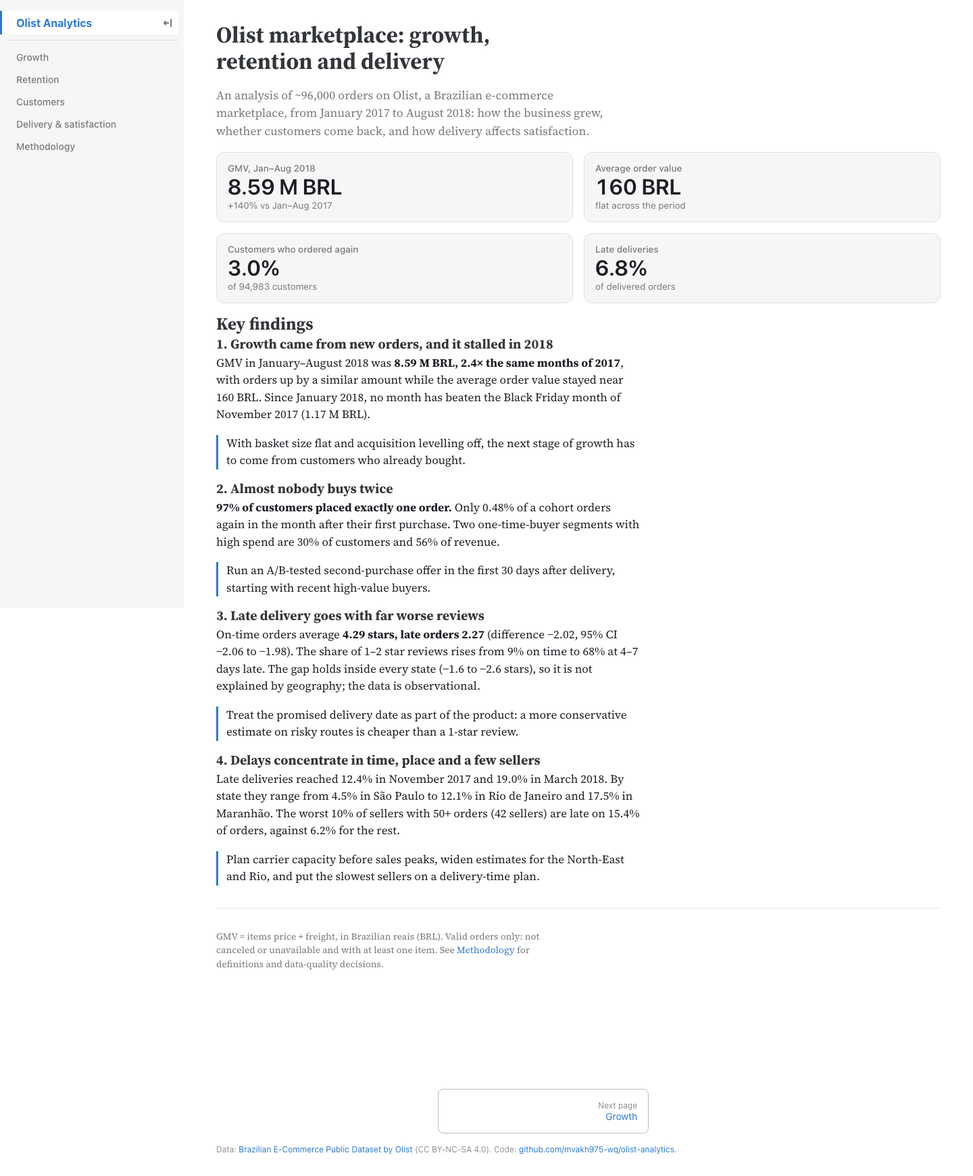
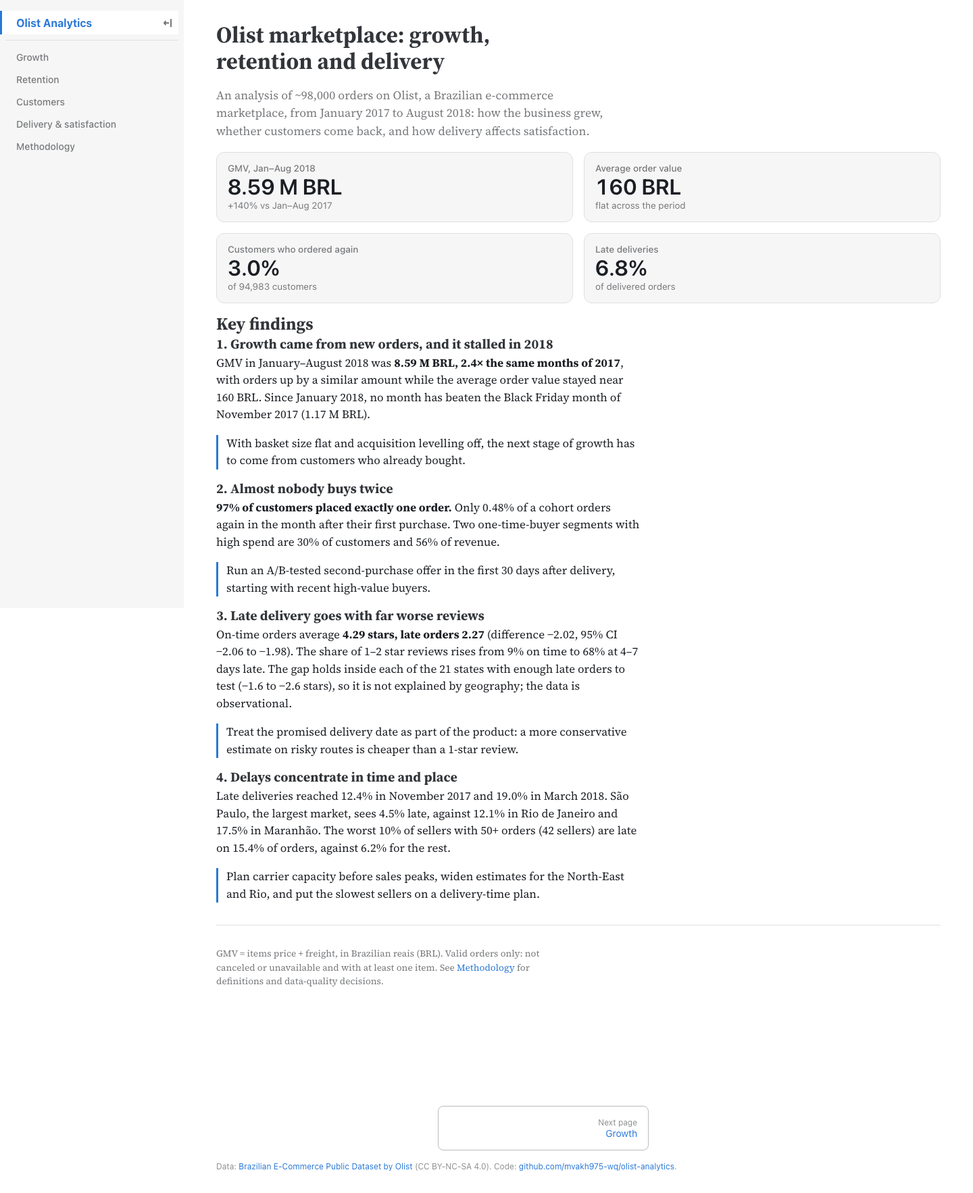
Fix overstated claims, guard small samples on the dashboard, harden the download

diff --git a/scripts/download.py b/scripts/download.py
@@ -2,7 +2,9 @@
 
 from __future__ import annotations
 
+import os
 import sys
+import tempfile
 from pathlib import Path
 
 DATASET = "olistbr/brazilian-ecommerce"
@@ -22,12 +24,25 @@ RAW_FILES = (
 )
 
 
+# written only after a download finished and every file was checked
+COMPLETE_MARKER = ".download-complete"
+
+
 class RawDataError(Exception):
     pass
 
 
 def missing_files(raw_dir: Path) -> list[str]:
-    return [name for name in RAW_FILES if not (raw_dir / name).is_file()]
+    """Expected files that are absent or empty."""
+    return [
+        name
+        for name in RAW_FILES
+        if not (raw_dir / name).is_file() or (raw_dir / name).stat().st_size == 0
+    ]
+
+
+def is_complete(raw_dir: Path) -> bool:
+    return (raw_dir / COMPLETE_MARKER).is_file() and not missing_files(raw_dir)
 
 
 def _default_api():
@@ -38,7 +53,7 @@ def _default_api():
 
 
 def download(raw_dir: Path, api=None) -> None:
-    if not missing_files(raw_dir):
+    if is_complete(raw_dir):
         return
     raw_dir.mkdir(parents=True, exist_ok=True)
     try:
@@ -53,10 +68,18 @@ def download(raw_dir: Path, api=None) -> None:
             f"  {DATASET_URL}\n"
             f"and unzip all CSV files into {raw_dir}"
         ) from exc
-    api.dataset_download_files(DATASET, path=str(raw_dir), unzip=True)
-    missing = missing_files(raw_dir)
-    if missing:
-        raise RawDataError(f"Download incomplete, missing: {', '.join(missing)}")
+    # download into a scratch directory so an interrupted run never leaves half a dataset behind
+    with tempfile.TemporaryDirectory(dir=raw_dir) as scratch:
+        try:
+            api.dataset_download_files(DATASET, path=scratch, unzip=True)
+        except (Exception, SystemExit) as exc:
+            raise RawDataError(f"Download from Kaggle failed: {exc}") from exc
+        missing = missing_files(Path(scratch))
+        if missing:
+            raise RawDataError(f"Download incomplete, missing: {', '.join(missing)}")
+        for name in RAW_FILES:
+            os.replace(Path(scratch) / name, raw_dir / name)
+    (raw_dir / COMPLETE_MARKER).write_text("ok\n")
 
 
 def main(argv: list[str] | None = None) -> int:

diff --git a/tests/test_download.py b/tests/test_download.py
@@ -2,7 +2,7 @@ from pathlib import Path
 
 import pytest
 
-from scripts.download import RAW_FILES, RawDataError, download, missing_files
+from scripts.download import COMPLETE_MARKER, RAW_FILES, RawDataError, download, missing_files
 
 
 def touch_all(d: Path, names) -> None:
@@ -24,6 +24,7 @@ def test_incomplete_raw_dir_detected(tmp_path):
 
 def test_complete_dir_skips_download(tmp_path):
     touch_all(tmp_path, RAW_FILES)
+    (tmp_path / COMPLETE_MARKER).write_text("ok\n")
 
     class Boom:
         def authenticate(self):
@@ -74,3 +75,29 @@ def test_client_exit_on_missing_credentials_becomes_raw_data_error(tmp_path):
 
     with pytest.raises(RawDataError, match="kaggle auth login"):
         download(tmp_path, api=ExitingClient())
+
+
+def test_files_from_an_interrupted_download_are_not_trusted(tmp_path):
+    # all names present (e.g. unzip was interrupted) but the download never completed
+    touch_all(tmp_path, RAW_FILES)
+    (tmp_path / "olist_orders_dataset.csv").write_text("")
+    calls = []
+
+    class Api(FakeApi):
+        def dataset_download_files(self, dataset, path, unzip):
+            calls.append(path)
+            super().dataset_download_files(dataset, path, unzip)
+
+    download(tmp_path, api=Api(RAW_FILES))
+    assert calls, "an incomplete directory must trigger a fresh download"
+    assert missing_files(tmp_path) == []
+
+
+def test_download_failure_becomes_raw_data_error(tmp_path):
+    class Offline(FakeApi):
+        def dataset_download_files(self, dataset, path, unzip):
+            raise ConnectionError("network is unreachable")
+
+    with pytest.raises(RawDataError, match="network is unreachable"):
+        download(tmp_path, api=Offline(RAW_FILES))
+    assert missing_files(tmp_path) == list(RAW_FILES)

diff --git a/notebooks/04_delivery_vs_reviews.py b/notebooks/04_delivery_vs_reviews.py
@@ -205,10 +205,10 @@ db.sql("""
 #   rank-biserial −0.64, a large effect). 15+ days late: −2.57.
 # - **Four or more days late flips the review**: the share of 1–2 star reviews goes from 9% (on time)
 #   to 32% (1–3 days late) and 68% (4–7 days late).
-# - **The gap holds inside every state** (−1.6 to −2.6 stars across 21 states) and inside the five
+# - **The gap holds inside each of the 21 states with enough late orders** (−1.6 to −2.6 stars) and inside the five
 #   largest categories (−1.9 to −2.2), so it is not explained by where or what people buy.
 #   It is still an observational association.
 # - **Where it fails**: late rates spiked in the Black Friday month (12.4% in Nov 2017) and again in
-#   Feb–Mar 2018 (14.1% and 19.0%), against about 3% in calm months of 2017; by state, from 4.5% in SP to 12.1%
-#   in RJ and 17.5% in MA;
+#   Feb–Mar 2018 (14.1% and 19.0%), against about 3% in calm months of 2017; by state, 4.5% in SP (the largest
+#   market) against 12.1% in RJ and 17.5% in MA;
 #   the worst 10% of sellers with 50+ orders (42 sellers) are late on 15.4% of orders vs 6.2% for the rest.

diff --git a/README.ru.md b/README.ru.md
@@ -2,7 +2,7 @@
 
 [English version](README.md)
 
-**Как рос бразильский маркетплейс, возвращаются ли покупатели и во что обходится опоздание доставки?** Полный цикл анализа на ~96 000 реальных заказов: модели dbt в DuckDB с тестами данных, статистический анализ в ноутбуках и публичный дашборд.
+**Как рос бразильский маркетплейс, возвращаются ли покупатели и во что обходится опоздание доставки?** Полный цикл анализа на ~98 000 реальных заказов: модели dbt в DuckDB с тестами данных, статистический анализ в ноутбуках и публичный дашборд.
 
 **[→ Открыть дашборд](https://mvakh975-wq.github.io/olist-analytics/)** (на английском)
 
@@ -14,8 +14,8 @@
 
 1. **Рост дали новые покупатели, и в 2018 году он остановился.** Оборот (GMV) за январь–август 2018 — 8,59 млн BRL, в 2,4 раза больше, чем за те же месяцы 2017 года. Средний чек при этом не изменился (~160 BRL). Ни один месяц 2018 года не превзошёл ноябрь 2017-го с его Чёрной пятницей.
 2. **Повторно почти никто не покупает.** 97% покупателей сделали ровно один заказ; в следующем месяце возвращаются лишь 0,48% когорты. Два сегмента «разовых покупателей с высоким чеком» — 30% клиентов и 56% выручки; это главная цель для программы второй покупки.
-3. **Опоздание доставки сопровождается гораздо худшими отзывами.** Доставленные вовремя заказы получают в среднем 4,29 звезды, опоздавшие — 2,27 (−2,02; 95% ДИ от −2,06 до −1,98; тест Манна–Уитни p < 0,001). При опоздании на 4–7 дней 68% заказов получают 1–2 звезды против 9% при доставке вовремя. Разрыв сохраняется внутри каждого штата и крупнейших категорий.
-4. **Опоздания сосредоточены во времени, в регионах и у части продавцов.** Доля опозданий доходила до 12,4% в ноябре 2017 и 19,0% в марте 2018; по штатам — от 4,5% в Сан-Паулу до 17,5% в Мараньяне; худшие 10% активных продавцов опаздывают в 15,4% заказов против 6,2% у остальных.
+3. **Опоздание доставки сопровождается гораздо худшими отзывами.** Доставленные вовремя заказы получают в среднем 4,29 звезды, опоздавшие — 2,27 (−2,02; 95% ДИ от −2,06 до −1,98; тест Манна–Уитни p < 0,001). При опоздании на 4–7 дней 68% заказов получают 1–2 звезды против 9% при доставке вовремя. Разрыв сохраняется внутри каждого из 21 штата, где достаточно опоздавших заказов, и внутри пяти крупнейших категорий.
+4. **Опоздания сосредоточены во времени и в регионах.** Доля опозданий доходила до 12,4% в ноябре 2017 и 19,0% в марте 2018 при обычных ~3%; в Сан-Паулу, крупнейшем рынке, опаздывают 4,5% заказов, в Рио-де-Жанейро — 12,1%, в Мараньяне — 17,5%. Худшие 10% активных продавцов опаздывают в 15,4% своих заказов против 6,2% у остальных.
 
 ## Бизнес-вопросы
 
@@ -31,7 +31,7 @@
 
 ```
 Kaggle (9 CSV) ─► scripts/download.py ─► data/raw/                        (не в git)
-   ─► dbt + DuckDB: staging ─► intermediate ─► marts, 52 теста данных    (olist.duckdb, не в git)
+   ─► dbt + DuckDB: staging ─► intermediate ─► marts, 53 теста данных    (olist.duckdb, не в git)
    ─► scripts/export_marts.py ─► data/marts/*.parquet                    (в git, ~19 МБ)
    ─► notebooks/: статистика и графики
    ─► site/: Observable Framework; SQL выполняется в браузере на небольших агрегатах ─► GitHub Pages
@@ -39,7 +39,7 @@ Kaggle (9 CSV) ─► scripts/download.py ─► data/raw/                      
 
 - **SQL-модели** ([`dbt/models`](dbt/models)): типизированный слой staging, одна обогащённая строка на заказ и витрины под каждый вопрос: `fct_orders`, `dim_customers`, `mart_monthly_kpis`, `mart_cohort_retention`, `mart_rfm`, `mart_delivery_performance` и другие.
 - **Качество данных** ([`docs/data_quality.md`](docs/data_quality.md)): перед моделированием каждая таблица проверена на пропуски, дубликаты и типы, по каждой проблеме принято и записано решение. Тесты dbt охраняют ключи, связи, допустимые значения и бизнес-правила (например, задержка никогда не считается для недоставленного заказа).
-- **Тесты** (pytest, 56): проект dbt собирается на выборке реальных строк, в которую специально включены все крайние случаи из профилирования, а итоги витрин сверяются с расчётом напрямую по сырым файлам. CI на каждый push: линтеры (ruff, sqlfluff), dbt build, pytest и сборка дашборда.
+- **Тесты** (pytest, 58): проект dbt собирается на выборке реальных строк, в которую специально включены все крайние случаи из профилирования, а итоги витрин сверяются с расчётом напрямую по сырым файлам. CI на каждый push: линтеры (ruff, sqlfluff), dbt build, pytest и сборка дашборда.
 - **Проверка дашборда**: скрипт Playwright открывает каждую страницу на ширине компьютера и телефона в светлой и тёмной теме и падает при ошибках или горизонтальной прокрутке.
 
 ### Три вещи, которые данные пытались скрыть

diff --git a/README.md b/README.md
@@ -6,7 +6,7 @@
 ![Code: MIT](https://img.shields.io/badge/code-MIT-green)
 ![Data: CC BY-NC-SA 4.0](https://img.shields.io/badge/data-CC%20BY--NC--SA%204.0-lightgrey)
 
-**How did a Brazilian marketplace grow, do its customers come back, and what does late delivery cost?** An end-to-end analysis of ~96,000 real orders: dbt models in DuckDB with data tests, statistical analysis in notebooks, and a public dashboard.
+**How did a Brazilian marketplace grow, do its customers come back, and what does late delivery cost?** An end-to-end analysis of ~98,000 real orders: dbt models in DuckDB with data tests, statistical analysis in notebooks, and a public dashboard.
 
 **[→ Open the dashboard](https://mvakh975-wq.github.io/olist-analytics/)**
 
@@ -20,8 +20,8 @@ Analysis period January 2017 – August 2018, valid orders only. Full write-up w
 
 1. **Growth came from new customers, and it stalled in 2018.** GMV in Jan–Aug 2018 was 8.59 M BRL, 2.4× the same months of 2017, while the average order value stayed flat at ~160 BRL. No month in 2018 beat the Black Friday month of November 2017.
 2. **Almost nobody buys twice.** 97% of customers placed exactly one order; only 0.48% of a cohort orders again the following month. Two high-value one-time-buyer segments are 30% of customers and 56% of revenue, the natural target for a second-purchase programme.
-3. **Late delivery goes with far worse reviews.** On-time orders average 4.29 stars, late ones 2.27 (−2.02, 95% CI −2.06 to −1.98, Mann–Whitney p < 0.001). 68% of orders delivered 4–7 days late get a 1–2 star review, against 9% on time. The gap holds inside every state and the largest categories.
-4. **Delays concentrate in time, place and a few sellers.** Late rates peaked at 12.4% in November 2017 and 19.0% in March 2018, range from 4.5% in São Paulo to 17.5% in Maranhão, and the worst 10% of active sellers are late on 15.4% of orders against 6.2% for the rest.
+3. **Late delivery goes with far worse reviews.** On-time orders average 4.29 stars, late ones 2.27 (−2.02, 95% CI −2.06 to −1.98, Mann–Whitney p < 0.001). 68% of orders delivered 4–7 days late get a 1–2 star review, against 9% on time. The gap holds inside each of the 21 states with enough late orders and inside the five largest categories.
+4. **Delays concentrate in time and place.** Late rates peaked at 12.4% in November 2017 and 19.0% in March 2018 against about 3% in calm months; São Paulo, the largest market, sees 4.5% late against 12.1% in Rio de Janeiro and 17.5% in Maranhão. The worst 10% of active sellers are late on 15.4% of their orders against 6.2% for the rest.
 
 ## Business questions
 
@@ -37,15 +37,15 @@ Analysis period January 2017 – August 2018, valid orders only. Full write-up w
 
 ```
 Kaggle (9 CSV) ─► scripts/download.py ─► data/raw/                      (not in git)
-   ─► dbt + DuckDB: staging ─► intermediate ─► marts, 52 data tests    (olist.duckdb, not in git)
+   ─► dbt + DuckDB: staging ─► intermediate ─► marts, 53 data tests    (olist.duckdb, not in git)
    ─► scripts/export_marts.py ─► data/marts/*.parquet                  (in git, ~19 MB)
    ─► notebooks/: statistics and charts
    ─► site/: Observable Framework; SQL runs in the browser on small aggregates ─► GitHub Pages
 ```
 
 - **SQL models** ([`dbt/models`](dbt/models)): typed staging views, one enriched row per order, and marts per question: `fct_orders`, `dim_customers`, `mart_monthly_kpis`, `mart_cohort_retention`, `mart_rfm`, `mart_delivery_performance` and others.
-- **Data quality** ([`docs/data_quality.md`](docs/data_quality.md)): every table profiled for nulls, duplicates and types before modelling, with a decision for each issue. dbt tests guard keys, relationships, accepted values and business rules (for example, no delay is ever computed for an undelivered order).
-- **Tests** (pytest, 56): the dbt project is built on a sample of real rows chosen to contain every edge case found in profiling, and the marts are reconciled against totals computed straight from the raw files. CI runs lint (ruff, sqlfluff), dbt build, pytest and a dashboard build on every push.
+- **Data quality** ([`docs/data_quality.md`](docs/data_quality.md)): every table profiled for nulls, duplicates and types before modelling, with a decision for each issue. dbt tests guard keys, relationships, accepted values and business rules (for example, no delay is ever computed for an order that was not delivered).
+- **Tests** (pytest, 58): the dbt project is built on a sample of real rows chosen to contain every edge case found in profiling, and the marts are reconciled against totals computed straight from the raw files. CI runs lint (ruff, sqlfluff), dbt build, pytest and a dashboard build on every push.
 - **Dashboard checks**: a Playwright script opens every page at desktop and phone widths in light and dark mode and fails on errors or horizontal scroll.
 
 ### Three things the data tried to hide

diff --git a/site/src/index.md b/site/src/index.md
@@ -19,7 +19,7 @@ import {integer, pct, millionsBRL, brl, signed, stars, asDate} from "./component
 
 # Olist marketplace: growth, retention and delivery
 
-<p class="lede">An analysis of ~96,000 orders on Olist, a Brazilian e-commerce marketplace, from January 2017 to August 2018: how the business grew, whether customers come back, and how delivery affects satisfaction.</p>
+<p class="lede">An analysis of ~98,000 orders on Olist, a Brazilian e-commerce marketplace, from January 2017 to August 2018: how the business grew, whether customers come back, and how delivery affects satisfaction.</p>
 
 ```sql id=yoy
 select
@@ -147,13 +147,13 @@ GMV in January–August 2018 was **${millionsBRL(y.gmv_2018)}, ${(y.gmv_2018 / y
 
 ### 3. Late delivery goes with far worse reviews
 
-On-time orders average **${stars(e.mean_on_time)} stars, late orders ${stars(e.mean_late)}** (difference ${signed(e.diff)}, 95% CI ${signed(e.ci_low)} to ${signed(e.ci_high)}). The share of 1–2 star reviews rises from ${pct(lo.on_time, 0)} on time to ${pct(lo.late_4_7, 0)} at 4–7 days late. The gap holds inside every state (${signed(d3.max(stateDiffs), 1)} to ${signed(d3.min(stateDiffs), 1)} stars), so it is not explained by geography; the data is observational.
+On-time orders average **${stars(e.mean_on_time)} stars, late orders ${stars(e.mean_late)}** (difference ${signed(e.diff)}, 95% CI ${signed(e.ci_low)} to ${signed(e.ci_high)}). The share of 1–2 star reviews rises from ${pct(lo.on_time, 0)} on time to ${pct(lo.late_4_7, 0)} at 4–7 days late. The gap holds inside each of the ${stateDiffs.length} states with enough late orders to test (${signed(d3.max(stateDiffs), 1)} to ${signed(d3.min(stateDiffs), 1)} stars), so it is not explained by geography; the data is observational.
 
 <p class="recommendation">Treat the promised delivery date as part of the product: a more conservative estimate on risky routes is cheaper than a 1-star review.</p>
 
-### 4. Delays concentrate in time, place and a few sellers
+### 4. Delays concentrate in time and place
 
-Late deliveries reached ${pct(sp.nov_2017)} in November 2017 and ${pct(sp.mar_2018)} in March 2018. By state they range from ${pct(s.sp)} in São Paulo to ${pct(s.rj)} in Rio de Janeiro and ${pct(s.ma)} in Maranhão. The worst 10% of sellers with 50+ orders (${w.n_worst} sellers) are late on ${pct(w.worst)} of orders, against ${pct(w.rest)} for the rest.
+Late deliveries reached ${pct(sp.nov_2017)} in November 2017 and ${pct(sp.mar_2018)} in March 2018. São Paulo, the largest market, sees ${pct(s.sp)} late, against ${pct(s.rj)} in Rio de Janeiro and ${pct(s.ma)} in Maranhão. The worst 10% of sellers with 50+ orders (${w.n_worst} sellers) are late on ${pct(w.worst)} of orders, against ${pct(w.rest)} for the rest.
 
 <p class="recommendation">Plan carrier capacity before sales peaks, widen estimates for the North-East and Rio, and put the slowest sellers on a delivery-time plan.</p>
 

diff --git a/site/src/delivery.md b/site/src/delivery.md
@@ -39,15 +39,19 @@ order by 2
 ```
 
 ```js
-const bucketOrder = [...by_bucket].map((d) => d.delay_bucket);
+// fixed order so an empty bucket stays visible as a gap instead of disappearing
+const bucketOrder = ["On time or early", "1–3 days late", "4–7 days late", "8–14 days late", "15+ days late"];
 const onTime = by_bucket.get(0);
 const late4 = [...by_bucket].filter((d) => d.delay_bucket_order >= 3);
-const late4Low = d3.sum(late4, (d) => d.low_score_orders) / d3.sum(late4, (d) => d.reviewed);
+const late4Reviewed = d3.sum(late4, (d) => d.reviewed);
+const late4Low = d3.sum(late4, (d) => d.low_score_orders) / late4Reviewed;
+// below this many reviewed late orders a headline percentage would be noise
+const enoughLate = late4Reviewed >= 30;
 ```
 
 <div class="grid grid-cols-2">
   <div class="card">
-    <h2>${pct(late4Low, 0)} of orders delivered 4+ days late get a 1–2 star review, against ${pct(onTime.low_score_share, 0)} on time</h2>
+    <h2>${enoughLate ? `${pct(late4Low, 0)} of orders delivered 4+ days late get a 1–2 star review, against ${pct(onTime.low_score_share, 0)} on time` : `1–2 star reviews by delivery delay (only ${late4Reviewed} reviewed ${late4Reviewed === 1 ? "order" : "orders"} 4+ days late here)`}</h2>
     <h3>${state} · by delivery date vs the promised date</h3>
     ${resize((width) => Plot.plot({
       width,
@@ -62,7 +66,7 @@ const late4Low = d3.sum(late4, (d) => d.low_score_orders) / d3.sum(late4, (d) =>
     }))}
   </div>
   <div class="card">
-    <h2>Mean review score falls from ${stars(onTime.mean_score)} on time to as low as ${stars(d3.min(late4, (d) => d.mean_score))} for orders 4+ days late</h2>
+    <h2>${enoughLate ? `Mean review score falls from ${stars(onTime.mean_score)} on time to as low as ${stars(d3.min(late4, (d) => d.mean_score))} for orders 4+ days late` : "Mean review score by delivery delay"}</h2>
     <h3>${state} · by delivery date vs the promised date</h3>
     ${resize((width) => Plot.plot({
       width,
@@ -120,7 +124,7 @@ const diffs = [...state_diffs];
 ```
 
 <div class="card">
-  <h2>The gap holds inside every state: late orders score ${(-d3.max(diffs, (d) => d.diff)).toFixed(1)} to ${(-d3.min(diffs, (d) => d.diff)).toFixed(1)} stars lower</h2>
+  <h2>The gap holds inside each of the ${diffs.length} states tested: late orders score ${(-d3.max(diffs, (d) => d.diff)).toFixed(1)} to ${(-d3.min(diffs, (d) => d.diff)).toFixed(1)} stars lower</h2>
   <h3>Mean score of late minus on-time orders, states with 300+ reviewed deliveries and 30+ late ones</h3>
   ${resize((width) => Plot.plot({
     width,

diff --git a/docs/findings.md b/docs/findings.md
@@ -40,13 +40,15 @@ more costs most of the goodwill of the order; a more conservative estimate in hi
 cheaper than a 1-star review.
 → [`04_delivery_vs_reviews`](../notebooks/04_delivery_vs_reviews.ipynb)
 
-## 4. Delays concentrate in time, place and a few sellers
+## 4. Delays concentrate in time and place
 
 - **Time:** 12.4% of orders were late in November 2017 (Black Friday) and 14.1% / 19.0% in February /
   March 2018, against about 3% in calm months of 2017.
-- **Place:** from 4.5% in São Paulo to 12.1% in Rio de Janeiro and 17.5% in Maranhão.
+- **Place:** 4.5% in São Paulo, the largest market, against 12.1% in Rio de Janeiro and 17.5% in
+  Maranhão (states with 500+ delivered orders range from 4.1% in Paraná to 17.5%).
 - **Sellers:** the worst 10% of sellers with 50+ orders (42 sellers) are late on 15.4% of their orders,
-  against 6.2% for the rest.
+  against 6.2% for the rest. They are a clear target for improvement, though they account for only
+  about a tenth of all late deliveries; most delays are spread across the network.
 
 **Recommendation:** plan carrier capacity ahead of sales peaks; widen delivery estimates for the
 North-East and Rio de Janeiro; put the slowest sellers on a delivery-time improvement plan and track

diff --git a/site/src/methodology.md b/site/src/methodology.md
@@ -13,7 +13,7 @@ title: Methodology
 ## Pipeline
 
 1. Raw CSV files are loaded into DuckDB by **dbt**, in three layers: *staging* (types, names, translations), *intermediate* (one row per order) and *marts* (facts, dimensions and one table per business question).
-2. **52 dbt tests** check keys, relationships, accepted values and business rules on every build. In CI they run on a sample of real rows chosen to contain every edge case found during profiling.
+2. **53 dbt tests** check keys, relationships, accepted values and business rules on every build. In CI they run on a sample of real rows chosen to contain every edge case found during profiling.
 3. Python notebooks do the statistics (bootstrap confidence intervals, Mann–Whitney U, checks inside states and categories).
 4. This site is built with **Observable Framework**; every number in its charts and findings comes from a SQL query over aggregates of the marts, run in the browser with DuckDB.
 

diff --git a/site/src/growth.md b/site/src/growth.md
@@ -27,13 +27,16 @@ const category = view(Inputs.select(["All categories", ...[...category_options].
 ```
 
 ```sql id=monthly
-select month, sum(gmv) as gmv
-from gmv
-where is_analysis_period
-  and (${state} = 'All states' or customer_state = ${state})
-  and (${category} = 'All categories' or category = ${category})
-group by month
-order by month
+-- every month of the period, so months without sales show as 0 instead of being skipped
+with months as (select month from kpis where is_analysis_period)
+select m.month, coalesce(sum(g.gmv), 0) as gmv
+from months as m
+left join gmv as g
+  on g.month = m.month
+  and (${state} = 'All states' or g.customer_state = ${state})
+  and (${category} = 'All categories' or g.category = ${category})
+group by m.month
+order by m.month
 ```
 
 ```sql id=yoy
